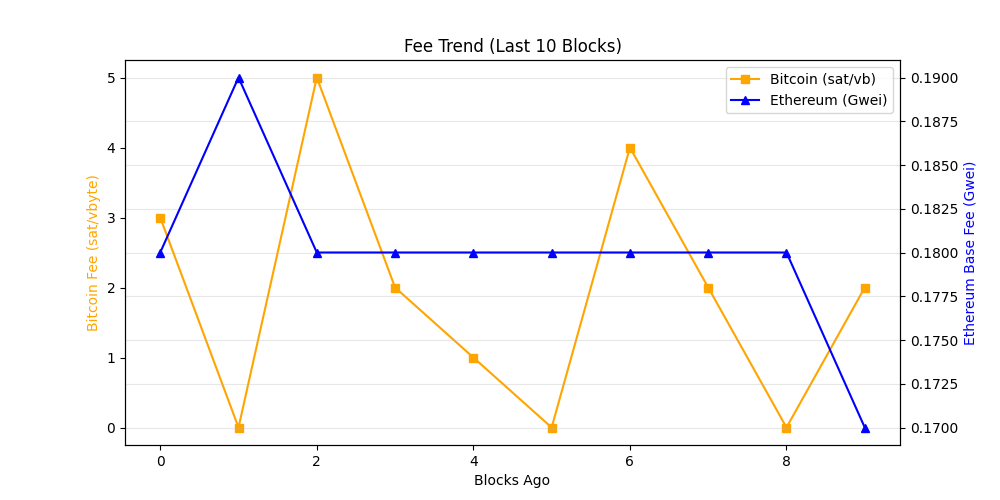
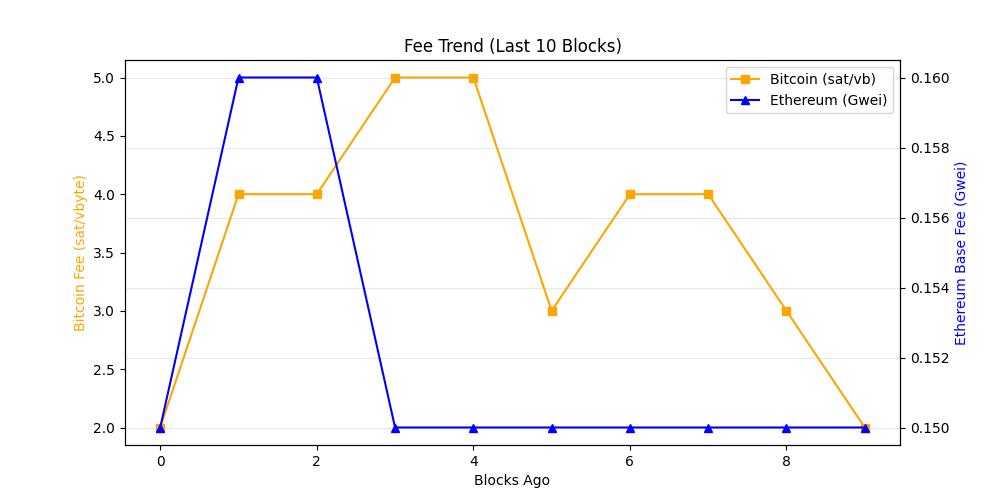
chore: update on-chain dashboard

diff --git a/README.md b/README.md
@@ -19,7 +19,7 @@ The README itself acts as the dashboard and is regenerated automatically on a 6 
 demonstrating a production-style, infrastructure-focused observability workflow rather
 than a traditional UI-driven approach.
 
-_Last updated: 2026-04-10 13:49 UTC_
+_Last updated: 2026-04-10 19:11 UTC_
 
 ## API Usage (GetBlock.io)
 - Calls used: **24**
@@ -27,8 +27,8 @@ _Last updated: 2026-04-10 13:49 UTC_
 ## Network Metrics
 | Chain | Block Height | TX Count | TPS (10 blk avg) | Block Util | Avg Fee |
 |------|-------------|----------|------------------|------------|---------|
-| Ethereum | 24849724 | 646 | 53.83 | 76.91% | 0.2 Gwei |
-| Bitcoin | 944471 | 1020 | 5.2 | 25.74% | N/A |
+| Ethereum | 24851329 | 210 | 17.5 | 42.01% | 0.1 Gwei |
+| Bitcoin | 944501 | 2542 | 14.69 | 99.8% | N/A |
 
 ## Visuals
 ### Transactions Trend
@@ -43,9 +43,8 @@ _Last updated: 2026-04-10 13:49 UTC_
 ## Whale Alerts (latest block)
 - Transaction hashes are truncated for readability.
 - Full hashes are available in `dashboards/metrics.json`
-- Bitcoin | 1642.56 BTC | `f342dbdc2211…`
-- Bitcoin | 4058.05 BTC | `1dbf5a9f180c…`
-- Bitcoin | 161.17 BTC | `7c02a1431f21…`
+- Bitcoin | 131.03 BTC | `6f0c10d09c09…`
+- Bitcoin | 4060.71 BTC | `17de550877c6…`
 
 ## Run locally
 
